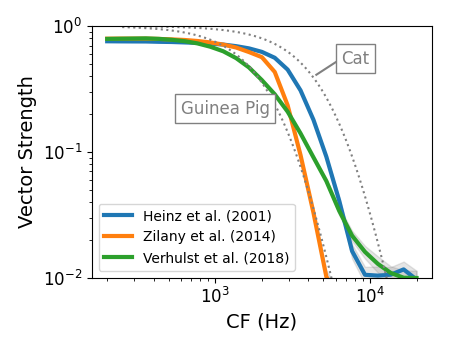
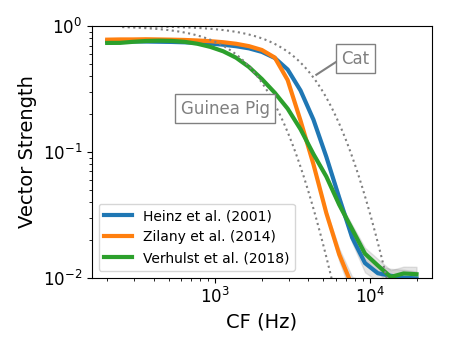
Figures 0-3 checked

Changed region(s): [[0.2178, 0.0857, 0.9333, 0.8]]

diff --git a/figure0/figure0.py b/figure0/figure0.py
@@ -11,8 +11,16 @@ import os, sys
 sys.path.append(os.getcwd())
 
 
-# Variant 1
 def sim_and_plot_neurogram(f0, xlow=20, xhigh=25):
+    """ Plots a simulated auditory nerve response for a harmonic complex tone.
+
+    The complex tone is synthesized in sine phase at 50 dB SPL per-component with components 4-13.
+
+    Args:
+        f0 (float): Fundamental frequency of the HCT, in Hz.
+        xlow (int): the lower limit of the x-axis, in periods of the tone
+        xhigh (int); the upper limit of the x-axis, in periods of the tone
+    """
     # Simulate neurogram
     params = si.Parameters(f0=f0, level=50, fs=int(200e3), cf_low=f0*0.5, cf_high=f0*15, h_low=4, h_high=13, n_cf=200,
                            dur=0.10, dur_ramp=0.01, fiber_type='msr')
@@ -21,36 +29,38 @@ def sim_and_plot_neurogram(f0, xlow=20, xhigh=25):
     sim = anf.AuditoryNerveZilany2014()
     resp = sim.run(params)
 
-    # Calculate axes
+    # Calculate various axes
     t = np.linspace(0, resp[0].shape[1]/params[0]['fs'], resp[0].shape[1])
     t = t / (1/f0) - xlow  # adjust by requested xlow so that the x-axis will start at 0
     xhigh = xhigh - xlow
     xlow = xlow - xlow
     f = 10**np.linspace(np.log10(params[0]['cf_low']), np.log10(params[0]['cf_high']), params[0]['n_cf'])
+
     # Get stimulus and add zero padding to it
     stim = np.concatenate([np.zeros(int(params[0]['fs']*0.005)),
                                         params[0]['_input'],
                                         np.zeros(int(params[0]['fs']*0.040))])
 
-    # Plot surface
+    # Generate plot
     fig, axs = plt.subplots(3, 3, gridspec_kw={'width_ratios': [1, 4, 1], 'height_ratios': [1, 4, 1]})
     # Null out corners
     axs[0, 0].axis('off')
     axs[2, 2].axis('off')
     axs[0, 2].axis('off')
     axs[2, 0].axis('off')
+
     # Plot surface (middle)
     axs[1, 1].pcolormesh(t, f, resp[0], shading='auto')
     axs[1, 1].get_xaxis().set_visible(False)
     axs[1, 1].get_yaxis().set_visible(False)
     axs[1, 1].set_xlim((xlow, xhigh))
-    #for harm in range(4, 13+1):
-    #    axs[1, 1].plot([0, 5], [harm*f0, harm*f0], 'w--', linewidth=0.8)
+
     # Plot acoustic stimulus (top)
     axs[0, 1].plot(t, stim, color='black')
     axs[0, 1].get_xaxis().set_visible(False)
     axs[0, 1].set_xlim((xlow, xhigh))
     axs[0, 1].set_ylabel('Amplitude (Pa)', rotation='horizontal', ha='right')
+
     # Plot average neural response (bottom)
     idx = np.argmin(np.abs(f - f0*4))
     h4 = axs[2, 1].plot(t, resp[0][idx, :], color='slateblue')
@@ -63,6 +73,7 @@ def sim_and_plot_neurogram(f0, xlow=20, xhigh=25):
     axs[2, 1].yaxis.tick_right()
     axs[2, 1].yaxis.set_label_position('right')
     axs[2, 1].yaxis.set_label_coords(1.20, 0.40)
+
     # Plot spectrum (left)
     X = 20*np.log10(np.abs(np.fft.fft(stim, n=stim.shape[0]*10)))
     X = X - np.max(X)
@@ -75,6 +86,7 @@ def sim_and_plot_neurogram(f0, xlow=20, xhigh=25):
     axs[1, 0].set_xlim((-10, 5))
     axs[1, 0].set_ylabel('Frequency or CF (Hz)')
     axs[1, 0].set_xlabel('Level (dB)')
+
     # Plot excitation pattern (right)
     axs[1, 2].plot(np.mean(resp[0], axis=1), f)
     idx = np.argmin(np.abs(f - f0*4))
@@ -86,13 +98,14 @@ def sim_and_plot_neurogram(f0, xlow=20, xhigh=25):
     axs[1, 2].set_xlabel('Firing rate')
     axs[1, 2].xaxis.tick_top()
     axs[1, 2].xaxis.set_label_position('top')
-    # Tight layout
+
+    # Tighten layout
     plt.tight_layout(pad=0.1, h_pad=-1, w_pad=-10)
 
-
+# Plot F0 = 280 Hz
 sim_and_plot_neurogram(280, 20, 25)
 plt.savefig('plots/fig0a.png')
-#plt.show()
+
+# Plot F0 = 1400 Hz
 sim_and_plot_neurogram(1400, 20*4, 20*4+5)
 plt.savefig('plots/fig0b.png')
-#plt.show()

diff --git a/figure3/figure3.py b/figure3/figure3.py
@@ -1,3 +1,7 @@
+"""
+This script implements Figure 3 of Guest and Oxenham (2021).
+"""
+
 import apcmodels.simulation as si
 import apcmodels.anf as anf
 import numpy as np
@@ -17,7 +21,8 @@ def plot_ep(axis_main, F0, condition, level, level_noise, title, first, color, f
         condition (str): condition from which to plot tones, either 'ISO' or 'GEOM'
         title (str): title to add to plot
         first (bool): whether or not this is the first plot in the row
-        color ???
+        color (ndarray, str): the color to use for the plot
+        fs (int): sampling rate to run the simulation at
     """
     # Figure out, for this F0, how many components will be in the complex tones
     n_freq = len(np.arange(F0, 48000 / 2, F0))
@@ -73,4 +78,5 @@ plot_ep(a1, 1400, 'ISO', 50, 40, '1400 Hz', False, '#fc8d62')
 plot_ep(a1, 1400, 'GEOM', 50, 40, '1400 Hz', False, '#8da0cb')
 plt.legend(['ISO', 'GEOM'], loc=3, framealpha=1)
 plt.tight_layout()
+# Save to disk
 plt.savefig('plots/fig3.png', bbox_inches='tight')

diff --git a/nofigure/vector_strength_curves/vector_strength_curves.py b/nofigure/vector_strength_curves/vector_strength_curves.py
@@ -88,7 +88,7 @@ def estimate_vector_strength(freqs, fs, model, model_name, n_rep, n_stim_rep, du
 
 
 # Define parameters
-fs = int(100e3)  # sampling rate in Hz
+fs = int(200e3)  # sampling rate in Hz
 n_rep = 50
 n_stim_rep = 150
 freqs = 10**np.linspace(np.log10(200), np.log10(20000), 25)  # CFs for which we will measure vector strength curves

diff --git a/nofigure/tuning_curves/estimate_q10_bm_clicks.py b/nofigure/tuning_curves/estimate_q10_bm_clicks.py
@@ -82,7 +82,7 @@ def calc_Q(vm, cfs, fs):
     return Q
 
 
-# Simulate Verhulst basilar membrane response to 30 dB SPL click
+# Simulate Verhulst basilar membrane response to 40 dB SPL click
 fs = int(500e3)
 click = synthesize_click(fs=fs)
 p0 = 2e-5
